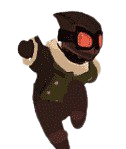
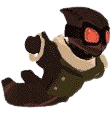
fix run animation

diff --git a/index.js b/index.js
@@ -28,11 +28,15 @@ function Star(){
 function Player(){
   const self = this;
   let img = document.getElementById('player');
+
+  //бег
   let src = null;
   let idx = 1;
+  //движение право лево
   let timermove = null
   let posX = img.offsetLeft;
   let posY = 67;
+  //бег
   let run = null;
   let jumpIdx = 1;
 
@@ -57,22 +61,27 @@ function Player(){
         break;
       case 37: timermove = requestAnimationFrame(self.moveLeft);
         break;
-      case 38:timer = requestAnimationFrame(self.jump);
+      case 38:  if(jumpIdx ===1) timer = requestAnimationFrame(self.jump);
       break;
     }
   }
   self.moveRight = function(){
-    cancelAnimationFrame(timermove);
-    posX+=1;
-    img.style.transform = `translate(${posX}px,${posY}vh)`
-    timermove = requestAnimationFrame(self.moveRight)
+    if(posX< container.offsetWidth - img.offsetWidth){
+      cancelAnimationFrame(timermove);
+      posX+=1;
+      img.style.transform = `translate(${posX}px,${posY}vh)`
+      timermove = requestAnimationFrame(self.moveRight)
+    } 
   }
 
   self.moveLeft = function(){
-    cancelAnimationFrame(timermove);
-    posX+=-1;
-    img.style.transform = `translate(${posX}px,${posY}vh)`
-    timermove = requestAnimationFrame(self.moveLeft)
+    if(posX >=0){
+      cancelAnimationFrame(timermove);
+      posX+=-1;
+      img.style.transform = `translate(${posX}px,${posY}vh)`
+      timermove = requestAnimationFrame(self.moveLeft)
+    }
+    
   }
 
   self.jumpAnimation = function(){
@@ -91,10 +100,10 @@ function Player(){
   }
   
   self.jumpUpdateCoords = function(){
-    if(jumpIdx >=2 && jumpIdx <=5){
+    if(jumpIdx >=3 && jumpIdx <=10){
       posY+=-5;
     }
-    else if (jumpIdx >=5 && jumpIdx <10){
+    else if (jumpIdx >=11 && jumpIdx <19){
       posY+=5;
     }
     img.style.transform = `translate(${posX}px,${posY}vh)`;
@@ -104,9 +113,9 @@ function Player(){
   self.jump = function(){
     clearInterval(run);
     cancelAnimationFrame(self.jump)
-      if(jumpIdx <= 10){
+      if(jumpIdx <= 20){
         self.jumpAnimation();
-       setTimeout(()=>timer = requestAnimationFrame(self.jump),100);
+       setTimeout(()=>timer = requestAnimationFrame(self.jump),20);
       }
       else{
         run = setInterval(self.updateSoure,75)

diff --git a/style.scss b/style.scss
@@ -58,6 +58,7 @@
   transform: translateY(67vh);
   z-index: 1;
   height: 100px;
+  will-change: transform;
 }
 
 @keyframes animStar{
